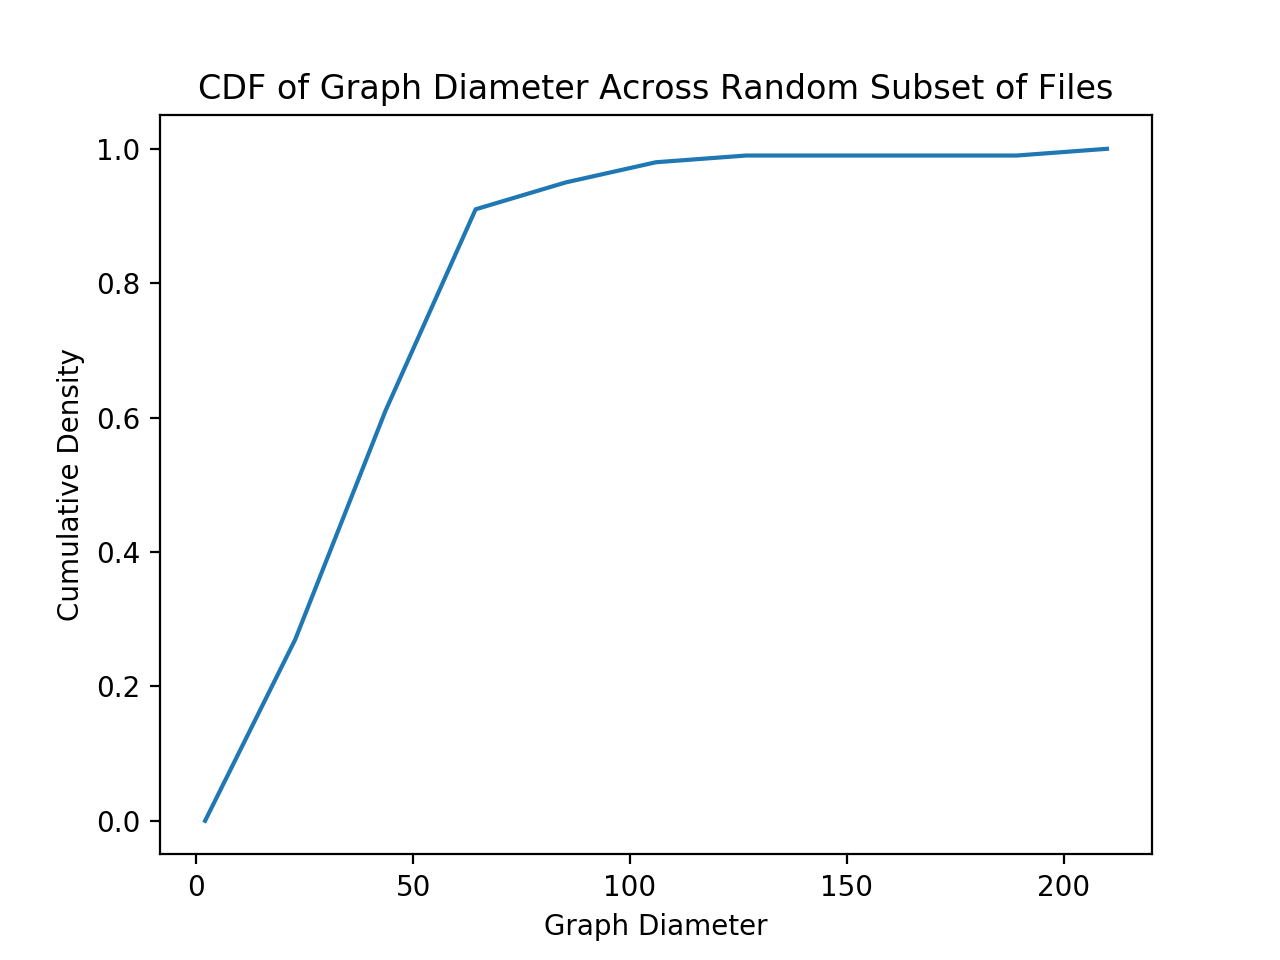
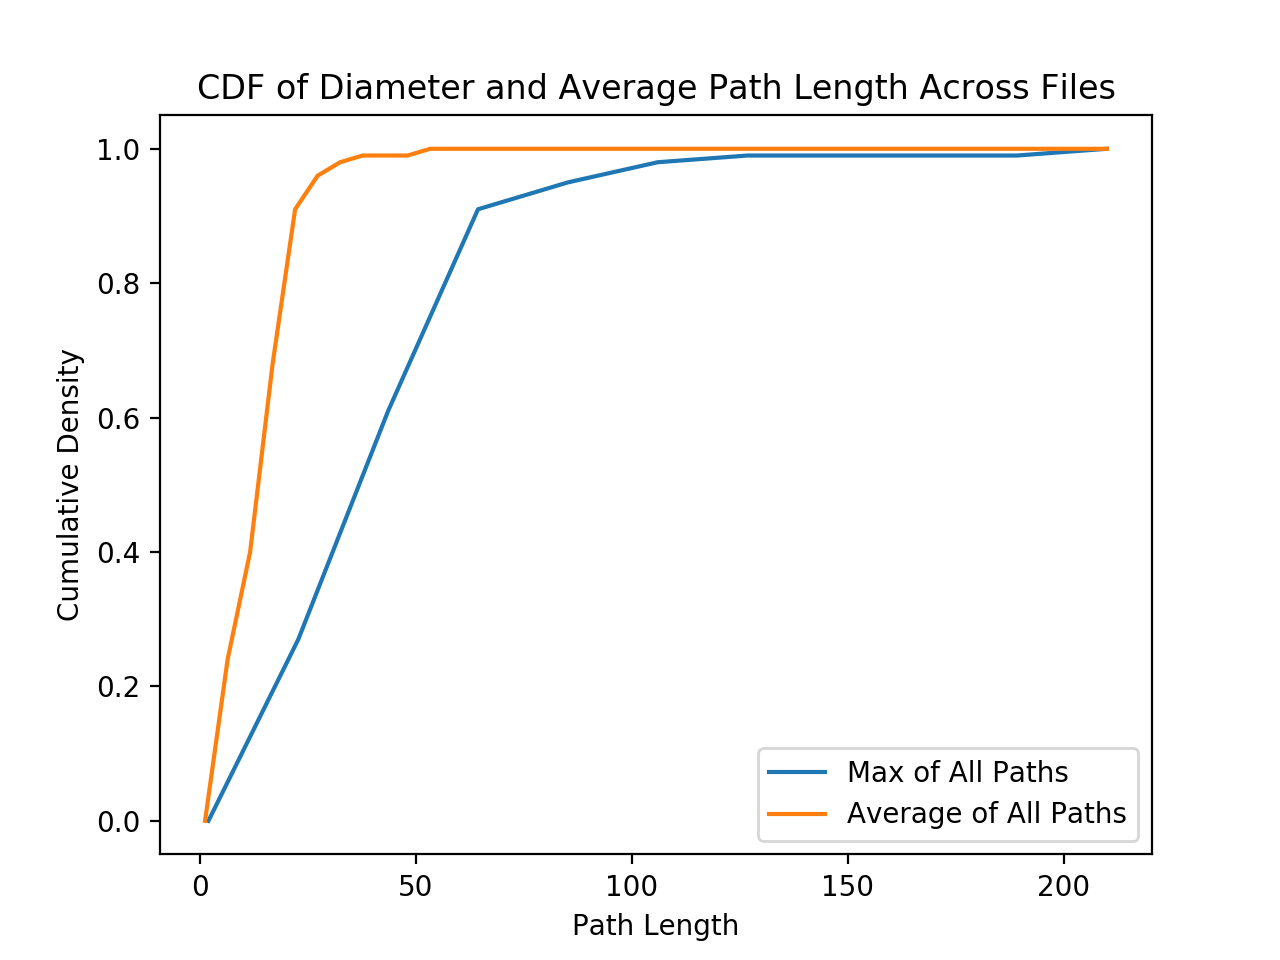
update experiments

diff --git a/docs/project_report/experiments.tex b/docs/project_report/experiments.tex
@@ -4,14 +4,16 @@
 \subsection{Number of Iterations}
 One of the major flaws in the graph net framework is the issue of determining how many iterations to run.
 In theory, because of the universal approximation properties of neural nets, the optimal number of iterations is any number larger than the diameter of the graph, so that each node can make a fully informed decision knowing the entire graph topology.
-However, this is not realistic: as shown in Figure~\ref{fig:dataset-graph-stats}, the maximum diameter of a given graph
+However, this is not realistic: as shown in Figure~\ref{fig:dataset-graph-stats}, the maximum diameter of any of the graphs is above 200, meaning that we would have to run the graph neural net for an intractable number of iterations to be able to get the ``full'' result.
+Instead, we approximate the result by running fewer iterations, theoretically losing out on certain classes of decisions (although further enforcing our inductive bias, since we believe that local nodes should be the primary ones that matter).
+It is not immediately clear how we should choose the \textsc{\NIter} hyperparameter though.
+We ran two experiments to try to select the ideal settings: a \emph{Bayesian Optimization} based approach, and what we call an \emph{Iteration Ensemble} approach.
 
 \begin{figure}
   \centering
-  \includegraphics[width=\linewidth]{img/diameter}
-  \includegraphics[width=\linewidth]{img/node_degree}
-  \includegraphics[width=\linewidth]{img/path_length}
-  \caption{Foo}
+  \includegraphics[width=0.49\linewidth]{img/diameter}
+  \includegraphics[width=0.49\linewidth]{img/node_degree}
+  \caption{Generated graph statistics}
   \label{fig:dataset-graph-stats}
 \end{figure}
 

diff --git a/docs/project_report/results.tex b/docs/project_report/results.tex
@@ -2,7 +2,6 @@
 \label{sec:results}
 The test-set classification accuracies of the different models we evaluated are tabulated in Table \ref{tbl:results_acc}.
 
-
 %%% Local Variables:
 %%% TeX-master: "main"
 %%% End:
